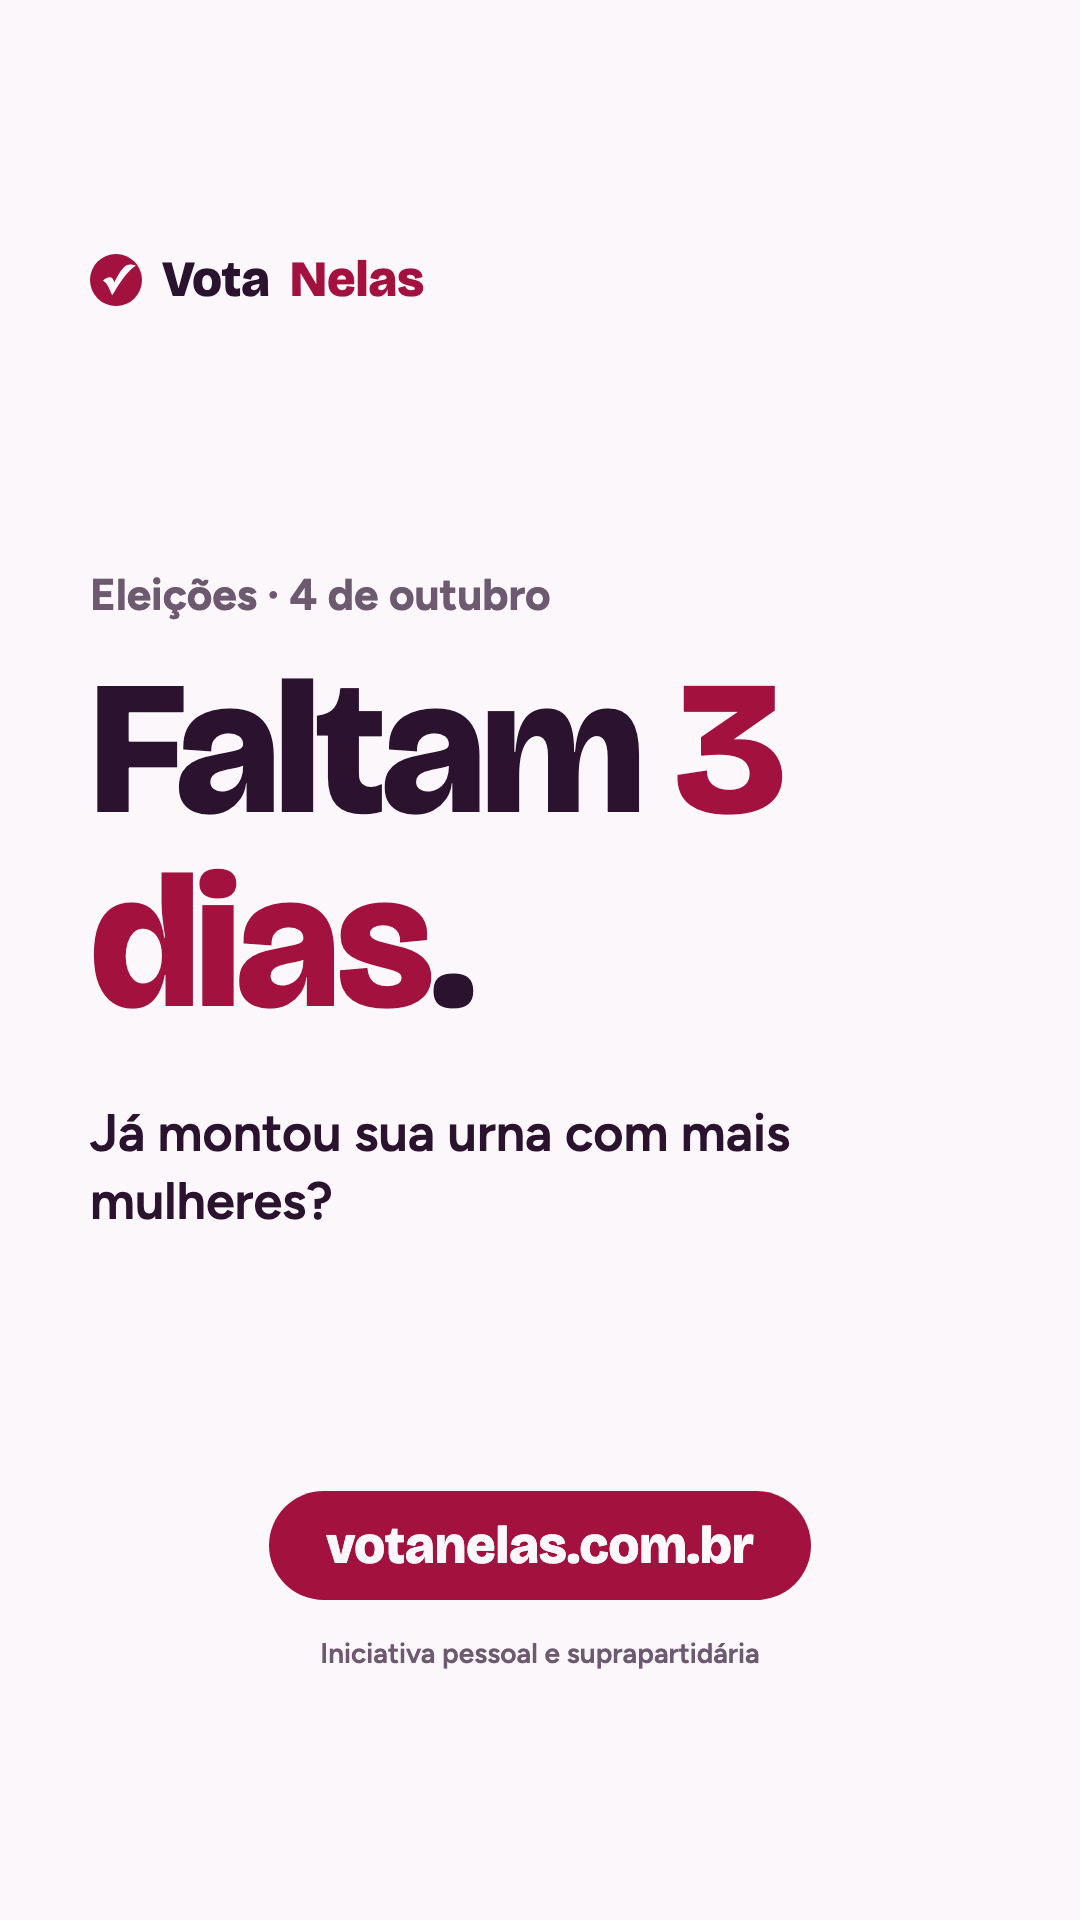
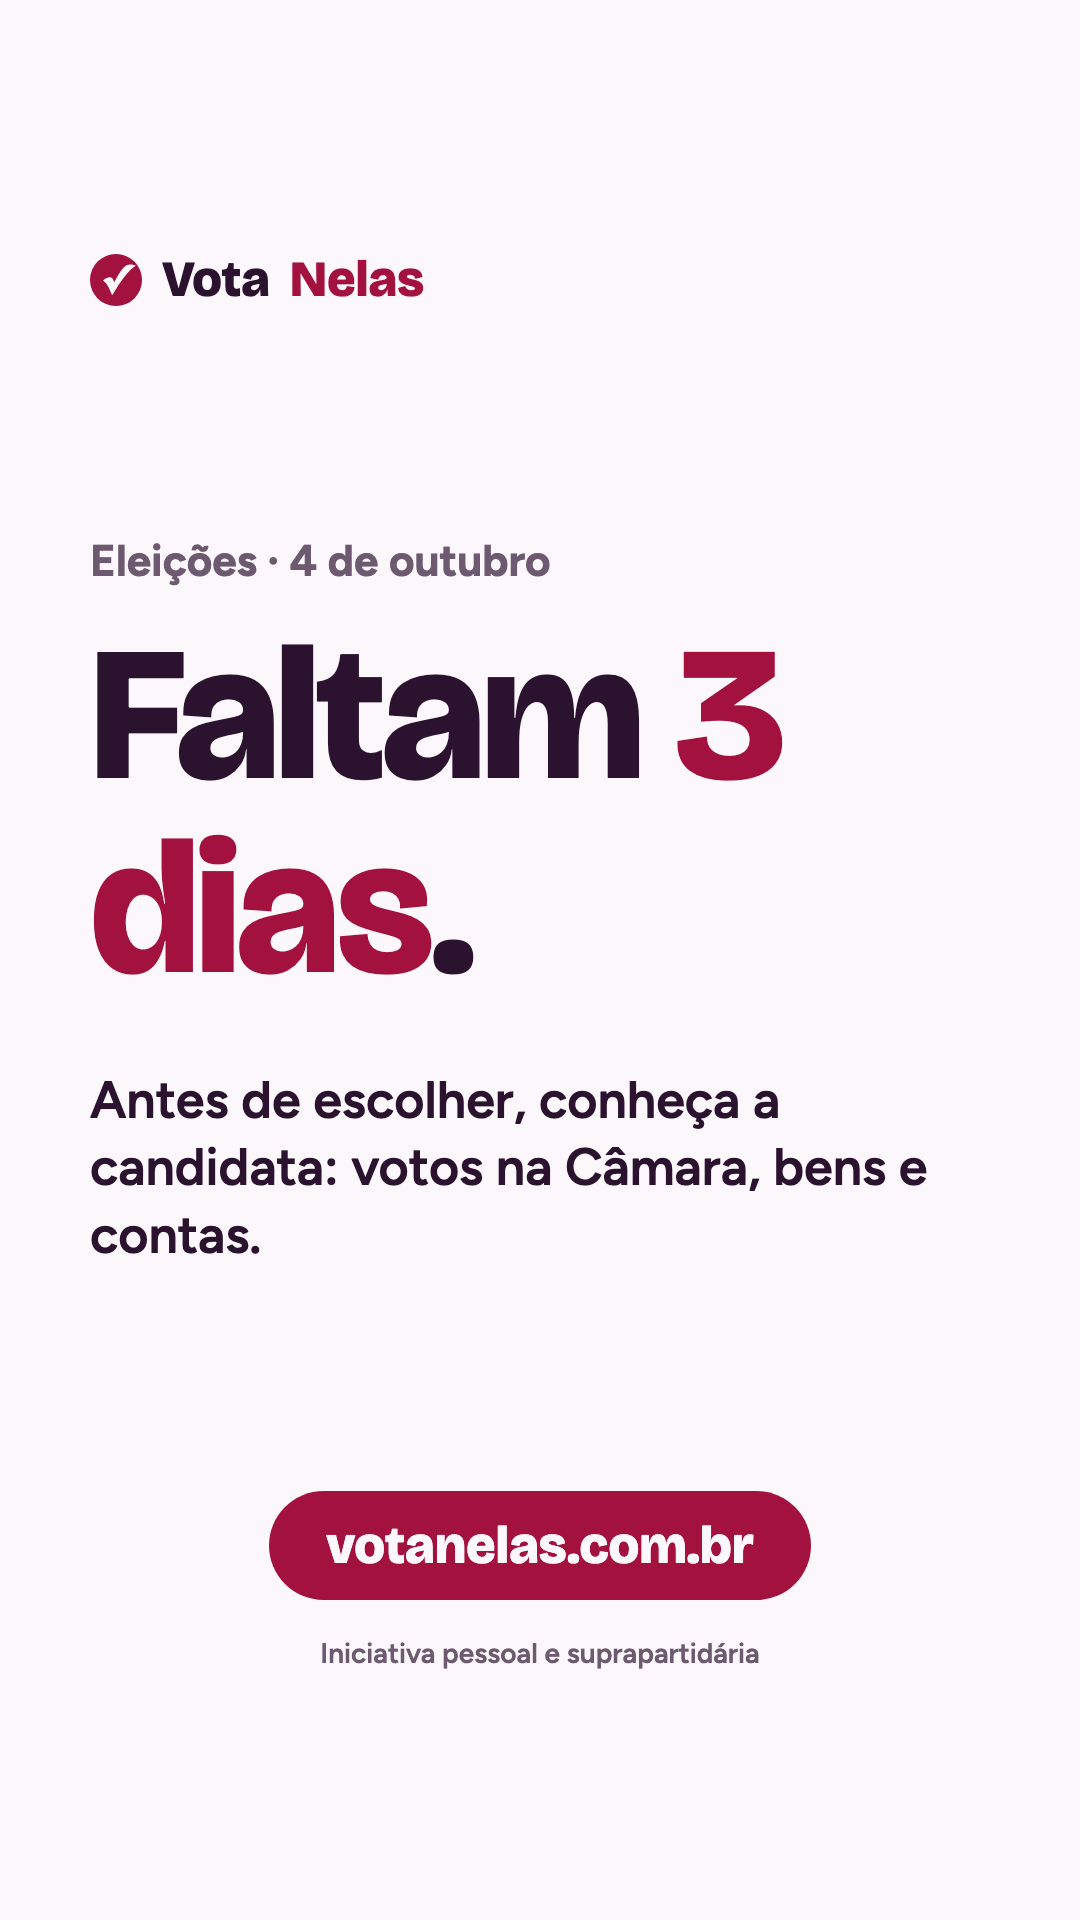
Inclui "Conheça a candidata" nas artes de divulgação
Nenhuma arte mostrava as novidades do site (como votou na Câmara, link
oficial do TSE e guia de pesquisa). O carrossel ganha o slide "Conheça
cada candidata antes de escolher" e passa a ter 4 imagens; há um post,
um story e um card do X só sobre isso, e a contagem regressiva alterna
com "Antes de escolher, conheça a candidata". O plano ganha o dia 29/09
dedicado ao tema, com legenda e post para o X.

Changed region(s): [[0.0611, 0.2812, 0.7333, 0.5312], [0.0611, 0.5625, 0.8556, 0.6562]]

diff --git a/docs/marketing/artes/gerar.py b/docs/marketing/artes/gerar.py
@@ -76,6 +76,19 @@ def colinha(linhas):
     return f'<div class="colinha"><div style="font-weight:700;font-size:22px;margin-bottom:14px;letter-spacing:.08em">MINHA COLINHA</div><div class="tela">{corpo}</div></div>'
 
 
+CONHECA = [
+    ("Como votou na Câmara", "Para quem já foi deputada: PEC 6x1, igualdade salarial, misoginia, agrotóxicos e licenciamento ambiental."),
+    ("Perfil, bens e contas", "Link oficial do TSE com bens declarados, certidões criminais e quem financia a campanha."),
+    ("Como pesquisar", "Um guia com os caminhos oficiais para conhecer qualquer candidata."),
+]
+
+
+def lista_conheca(tam_titulo, tam_texto, gap):
+    return f'<div style="display:grid;gap:{gap}px">' + "".join(
+        f'<div class="passo"><div class="n" style="font-size:44px">✓</div><div><h1 style="font-size:{tam_titulo}px">{t}</h1>'
+        f'<p class="m" style="font-size:{tam_texto}px;margin-top:8px">{d}</p></div></div>' for t, d in CONHECA) + "</div>"
+
+
 LINHAS_URNA = [("Deputada federal", 4), ("Deputada estadual", 5), ("Senadora 1", 3), ("Senadora 2", 3),
                ("Governadora", 2), ("Presidenta", 2)]
 
@@ -107,6 +120,12 @@ ARTES = {
 
     "feed_02_carrossel-3": (FEED, "", f"""{LOGO}
       <div class="meio">
+        <h1 style="font-size:78px;margin-bottom:50px">Conheça cada candidata <span class="v">antes de escolher.</span></h1>
+        {lista_conheca(50, 30, 40)}
+      </div>{RODAPE}"""),
+
+    "feed_02_carrossel-4": (FEED, "", f"""{LOGO}
+      <div class="meio">
         <h1 style="font-size:72px;margin-bottom:40px">Todas as candidatas aptas, de <span class="v">todos os partidos.</span></h1>
         <p style="font-size:36px;font-weight:600">Dados oficiais do TSE, em ordem sorteada a cada visita e no mesmo formato.</p>
         <p class="m" style="font-size:32px;margin-top:30px">Sem recomendar ninguém: quem escolhe é você.</p>
@@ -127,6 +146,14 @@ ARTES = {
         <h1 class="v" style="font-size:84px;margin:10px 0 50px">A colinha em papel pode.</h1>
         {colinha(LINHAS_URNA)}
         <p class="m" style="font-size:30px;margin-top:34px">Monte a sua, anote ou imprima e leve no dia 4.</p>
+      </div>{RODAPE}"""),
+
+    "feed_05_conheca-a-candidata": (FEED, "escuro", f"""{LOGO}
+      <div class="meio">
+        <p class="v" style="font-size:32px;font-weight:700;letter-spacing:.12em">ANTES DE VOTAR</p>
+        <h1 style="font-size:92px;margin:16px 0 50px">Conheça a candidata.</h1>
+        {lista_conheca(50, 30, 40)}
+        <p class="m" style="font-size:28px;margin-top:44px">Dados oficiais do TSE e da Câmara. O site não recomenda ninguém: quem escolhe é você.</p>
       </div>{RODAPE}"""),
 
     # ---------- stories do Instagram e status do WhatsApp (1080x1920) ----------
@@ -160,6 +187,15 @@ ARTES = {
       {CTA_STORY}
       {RODAPE_STORY}"""),
 
+    "story_04_conheca-a-candidata": (STORY, "escuro", f"""{LOGO}
+      <div class="meio">
+        <p class="v" style="font-size:40px;font-weight:700;letter-spacing:.12em">ANTES DE VOTAR</p>
+        <h1 style="font-size:120px;margin:20px 0 60px">Conheça a candidata.</h1>
+        {lista_conheca(58, 36, 48)}
+      </div>
+      {CTA_STORY}
+      {RODAPE_STORY}"""),
+
     # ---------- X (1600x900) ----------
     "x_01_52-e-17": (X, "", f"""{LOGO}
       <div class="meio" style="flex-direction:row;align-items:center;gap:80px">
@@ -173,13 +209,23 @@ ARTES = {
         <h1 style="font-size:100px">Na urna, 6 números.<br><span class="v">A maioria de mulheres.</span></h1>
         <p style="font-size:40px;font-weight:600;margin-top:34px">Escolha seu estado, uma mulher nos cargos que quiser e receba sua colinha.</p>
       </div>{RODAPE}"""),
+
+    "x_03_conheca-a-candidata": (X, "", f"""{LOGO}
+      <div class="meio" style="flex-direction:row;align-items:center;gap:70px">
+        <h1 style="font-size:96px;flex:0 0 560px">Conheça a candidata <span class="v">antes de votar.</span></h1>
+        {lista_conheca(44, 26, 26)}
+      </div>{RODAPE}"""),
 }
 
 # contagem regressiva para os stories: 26/9 (faltam 8 dias) até 3/10 (amanhã)
 for faltam in range(8, 0, -1):
     titulo = "Amanhã é dia de votar." if faltam == 1 else f'Faltam <span class="v">{faltam} dias</span>.'
-    apoio = ("Sua colinha está pronta? Anote os números ou tire um print hoje."
-             if faltam == 1 else "Já montou sua urna com mais mulheres?")
+    if faltam == 1:
+        apoio = "Sua colinha está pronta? Anote os números ou tire um print hoje."
+    elif faltam % 2:
+        apoio = "Antes de escolher, conheça a candidata: votos na Câmara, bens e contas."
+    else:
+        apoio = "Já montou sua urna com mais mulheres?"
     ARTES[f"story_contagem_{faltam:02d}"] = (STORY, "escuro" if faltam == 1 else "", f"""{LOGO}
       <div class="meio">
         <p class="m" style="font-size:44px;font-weight:700">Eleições · 4 de outubro</p>

diff --git a/docs/marketing/plano.md b/docs/marketing/plano.md
@@ -43,12 +43,12 @@ Hashtags: `#VotaNelas` `#EuVotoNelas` `#MaisMulheresNaPolítica` `#Eleições202
 
 | Dia | Tema | Feed Instagram / X | Stories e status do WhatsApp | WhatsApp (mensagem) |
 |---|---|---|---|---|
-| **Sex 25/09** | Lançamento | Carrossel "Como funciona" (`feed_02_carrossel-1` a `-3`) · X: fio de lançamento | `story_01_convite` | Onda 1: grupos de amigas e família |
+| **Sex 25/09** | Lançamento | Carrossel "Como funciona" (`feed_02_carrossel-1` a `-4`) · X: fio de lançamento | `story_01_convite` | Onda 1: grupos de amigas e família |
 | **Sáb 26/09** | A conta não fecha | `feed_01_52-e-17` · X: `x_01_52-e-17` | `story_contagem_08` | — |
 | **Dom 27/09** | A colinha | `feed_04_colinha` · X: texto da colinha | `story_contagem_07` | Repostar colinhas de amigas |
 | **Seg 28/09** | Voto em dobro | `feed_03_voto-em-dobro` · X: fio do voto em dobro | `story_contagem_06` + `story_03_voto-em-dobro` | Início das mensagens para parceiras |
-| **Ter 29/09** | Manifesto | Repost do carrossel · X: `x_02_como-funciona` | `story_contagem_05` + `story_02_manifesto` | — |
-| **Qua 30/09** | Quem já assinou | Print do contador do manifesto nos stories · X: número de assinaturas | `story_contagem_04` | Grupos de trabalho, faculdade, bairro |
+| **Ter 29/09** | Conheça a candidata | `feed_05_conheca-a-candidata` · X: `x_03_conheca-a-candidata` | `story_contagem_05` + `story_04_conheca-a-candidata` | — |
+| **Qua 30/09** | Manifesto | Print do contador do manifesto nos stories · X: `x_02_como-funciona` | `story_contagem_04` + `story_02_manifesto` | Grupos de trabalho, faculdade, bairro |
 | **Qui 01/10** | Reforço dos números | Repost de `feed_01_52-e-17` · X: dado do Senado | `story_contagem_03` | — |
 | **Sex 02/10** | Passe para 3 amigas | Post pedindo para mandar a colinha · X: pedido de RT | `story_contagem_02` | Onda 2: todos os grupos |
 | **Sáb 03/10** | Véspera | Repost de `feed_04_colinha` · X: lembrete da colinha | `story_contagem_01` (escuro) | Lembrete final: "leve a colinha amanhã" |
@@ -84,6 +84,13 @@ Hashtags: `#VotaNelas` `#EuVotoNelas` `#MaisMulheresNaPolítica` `#Eleições202
 >
 > Para eleger, cada voto continua contando uma vez. Mas cada voto numa deputada federal faz o partido receber mais dinheiro para investir em mulheres na próxima eleição.
 
+**29/09, conheça a candidata** (`feed_05_conheca-a-candidata`)
+> Antes de votar, conheça a candidata.
+>
+> No Vota Nelas, cada candidata tem o link oficial do TSE com bens declarados, certidões criminais e quem financia a campanha. Para quem já foi deputada, dá para ver como ela votou na Câmara em temas como a escala 6x1, a igualdade salarial e o licenciamento ambiental. E tem um guia com os caminhos oficiais para pesquisar qualquer candidata.
+>
+> Dados oficiais do TSE e da Câmara. O site não recomenda ninguém: quem escolhe é você. Link na bio.
+
 **02/10, passe para 3 amigas**
 > Faltam 2 dias. Já montou sua urna? Agora manda a colinha para 3 amigas: cada colinha compartilhada pode virar mais votos em mulheres.
 
@@ -100,6 +107,9 @@ Hashtags: `#VotaNelas` `#EuVotoNelas` `#MaisMulheresNaPolítica` `#Eleições202
 
 **28/09, voto em dobro**
 > Voto em deputada federal conta em dobro na divisão do dinheiro dos partidos (EC 111/2021). Para eleger, conta uma vez; para o fundo, conta duas. Monte sua urna com mulheres: votanelas.com.br
+
+**29/09, conheça a candidata**
+> Antes de votar, conheça a candidata: no votanelas.com.br tem o link oficial do TSE (bens, certidões, contas) e, para quem já foi deputada, como ela votou na Câmara. Dados oficiais; quem escolhe é você. #VotaNelas
 
 **01/10, Senado**
 > No Senado, são 15 senadoras em 81 cadeiras (18,5%). Neste ano cada eleitor vota em 2 nomes para o Senado. votanelas.com.br
@@ -156,12 +166,15 @@ Pedir para movimentos, coletivos e perfis de mulheres compartilharem. O argument
 | Arquivo | Formato | Uso |
 |---|---|---|
 | `feed_01_52-e-17.png` | 1080x1350 | Feed: 52,8% e 17,2% |
-| `feed_02_carrossel-1/2/3.png` | 1080x1350 | Feed: carrossel "Como funciona" |
+| `feed_02_carrossel-1/2/3/4.png` | 1080x1350 | Feed: carrossel "Como funciona" (o 3 é "Conheça cada candidata") |
 | `feed_03_voto-em-dobro.png` | 1080x1350 | Feed: voto em dobro (escuro) |
 | `feed_04_colinha.png` | 1080x1350 | Feed: colinha em papel |
+| `feed_05_conheca-a-candidata.png` | 1080x1350 | Feed: conheça a candidata (escuro) |
 | `story_01_convite.png` | 1080x1920 | Stories e status: convite |
 | `story_02_manifesto.png` | 1080x1920 | Stories e status: manifesto (escuro) |
 | `story_03_voto-em-dobro.png` | 1080x1920 | Stories e status: voto em dobro |
-| `story_contagem_08.png` a `_01.png` | 1080x1920 | Contagem regressiva, 26/09 a 03/10 |
+| `story_04_conheca-a-candidata.png` | 1080x1920 | Stories e status: conheça a candidata (escuro) |
+| `story_contagem_08.png` a `_01.png` | 1080x1920 | Contagem regressiva, 26/09 a 03/10 (dias ímpares lembram de conhecer a candidata) |
 | `x_01_52-e-17.png` | 1600x900 | X: números |
 | `x_02_como-funciona.png` | 1600x900 | X: como funciona (escuro) |
+| `x_03_conheca-a-candidata.png` | 1600x900 | X: conheça a candidata |
